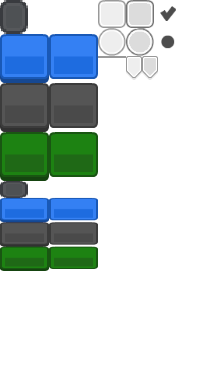
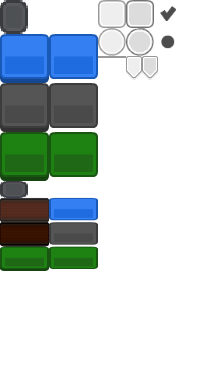
add links

Changed region(s): [[0.0, 0.538, 0.2559, 0.6875]]

diff --git a/src/ui/widget/link.rs b/src/ui/widget/link.rs
@@ -1,0 +1,118 @@
+use coffee::graphics::{Point, Rectangle};
+use coffee::input::{mouse, ButtonState};
+use coffee::ui::core::{Align, Event, Hasher, Layout, MouseCursor, Node, Style, Widget};
+
+use crate::message;
+use crate::ui::{renderer, Element};
+use std::hash::Hash;
+
+pub struct Link {
+    pressed: bool,
+    label: String,
+    on_press: message::Message,
+    on_release: message::Message,
+    style: Style,
+}
+
+impl std::fmt::Debug for Link {
+    fn fmt(&self, f: &mut std::fmt::Formatter<'_>) -> std::fmt::Result {
+        f.debug_struct("Button")
+            .field("label", &self.label)
+            .field("on_press", &self.on_press)
+            .field("style", &self.style)
+            .finish()
+    }
+}
+
+impl Link {
+    pub fn new(
+        pressed: bool,
+        label: &str,
+        on_press: message::Message,
+        on_release: message::Message,
+    ) -> Self {
+        Link {
+            pressed,
+            label: String::from(label),
+            on_press,
+            on_release,
+            style: Style::default().min_width(100),
+        }
+    }
+
+    pub fn width(mut self, width: u32) -> Self {
+        self.style = self.style.width(width);
+        self
+    }
+
+    pub fn fill_width(mut self) -> Self {
+        self.style = self.style.fill_width();
+        self
+    }
+
+    pub fn align_self(mut self, align: Align) -> Self {
+        self.style = self.style.align_self(align);
+        self
+    }
+}
+
+impl Widget<message::Message, renderer::Renderer> for Link {
+    fn node(&self, _renderer: &renderer::Renderer) -> Node {
+        Node::new(self.style.height(20))
+    }
+
+    fn on_event(
+        &mut self,
+        event: Event,
+        layout: Layout<'_>,
+        cursor_position: Point,
+        messages: &mut Vec<message::Message>,
+    ) {
+        match event {
+            Event::Mouse(mouse::Event::Input {
+                button: mouse::Button::Left,
+                state,
+            }) => {
+                let bounds = layout.bounds();
+                let on_it = bounds.contains(cursor_position);
+
+                match state {
+                    ButtonState::Pressed => {
+                        if on_it {
+                            messages.push(self.on_press.clone());
+                        }
+                    }
+                    ButtonState::Released => {
+                        if on_it && self.pressed {
+                            messages.push(self.on_release.clone());
+                        }
+                    }
+                }
+            }
+            _ => {}
+        }
+    }
+
+    fn draw(
+        &self,
+        renderer: &mut renderer::Renderer,
+        layout: Layout<'_>,
+        cursor_position: Point,
+    ) -> MouseCursor {
+        renderer.draw(cursor_position, layout.bounds(), &self.label)
+    }
+
+    fn hash(&self, state: &mut Hasher) {
+        self.style.hash(state);
+    }
+}
+
+pub trait Renderer {
+    fn draw(&mut self, cursor_position: Point, bounds: Rectangle<f32>, label: &str) -> MouseCursor;
+}
+
+impl<'a> From<Link> for Element<'a> {
+    fn from(link: Link) -> Element<'a> {
+        Element::new(link)
+    }
+}

diff --git a/src/ui/renderer/thin_button.rs b/src/ui/renderer/thin_button.rs
@@ -8,7 +8,7 @@ use coffee::ui::core::MouseCursor;
 const LEFT: Rectangle<u16> = Rectangle {
     x: 0,
     y: 199,
-    width: 7,
+    width: 2,
     height: 23,
 };
 
@@ -20,10 +20,10 @@ const BACKGROUND: Rectangle<u16> = Rectangle {
 };
 
 const RIGHT: Rectangle<u16> = Rectangle {
-    x: LEFT.height - LEFT.width,
-    y: LEFT.y,
-    width: LEFT.width,
-    height: LEFT.height,
+    x: 47,
+    y: 199,
+    width: 2,
+    height: 23,
 };
 
 impl thin_button::Renderer for Renderer {
@@ -86,7 +86,7 @@ impl thin_button::Renderer for Renderer {
 
         self.font.borrow_mut().add(Text {
             content: label,
-            position: Point::new(bounds.x, bounds.y - 4.0),
+            position: Point::new(bounds.x, bounds.y - 1.0),
             bounds: (bounds.width, bounds.height),
             color: if mouse_over {
                 Color::WHITE
@@ -98,7 +98,7 @@ impl thin_button::Renderer for Renderer {
                     a: 1.0,
                 }
             },
-            size: 15.0,
+            size: 17.0,
             horizontal_alignment: HorizontalAlignment::Center,
             vertical_alignment: VerticalAlignment::Center,
             ..Text::default()

diff --git a/src/engine/zone.rs b/src/engine/zone.rs
@@ -14,6 +14,7 @@ use crate::server::Server;
 use crate::sheet::TileSheet;
 use crate::socket::ZoneSocket;
 use crate::tile::zone::Tiles;
+use crate::ui::widget::link::Link;
 use crate::ui::widget::state_less_button;
 use crate::ui::widget::state_less_button::StateLessButton;
 use crate::ui::widget::text::Text;
@@ -1029,14 +1030,13 @@ impl Engine for ZoneEngine {
             if let Some(url) = url {
                 let id = self.link_button_ids.get(text).unwrap().clone();
                 right_menu = right_menu.push(
-                    StateLessButton::new(
+                    Link::new(
                         self.link_button_pressed == id,
                         &text,
                         Message::LinkButtonPressed(id),
                         Message::LinkButtonReleased(url.clone()),
                     )
-                    .width(175)
-                    .class(state_less_button::Class::Positive),
+                    .width(175),
                 );
             } else {
                 right_menu = right_menu.push(Text::new(text));

diff --git a/src/ui/renderer/link.rs b/src/ui/renderer/link.rs
@@ -1,0 +1,32 @@
+use crate::ui::renderer::Renderer;
+use crate::ui::widget::link;
+use coffee::graphics::{Color, HorizontalAlignment, Point, Rectangle, Text, VerticalAlignment};
+use coffee::ui::core::MouseCursor;
+
+impl link::Renderer for Renderer {
+    fn draw(&mut self, cursor_position: Point, bounds: Rectangle<f32>, label: &str) -> MouseCursor {
+        let mouse_over = bounds.contains(cursor_position);
+        let color = if mouse_over {
+            Color::BLUE
+        } else {
+            Color::WHITE
+        };
+
+        self.font.borrow_mut().add(Text {
+            content: label,
+            position: Point::new(bounds.x, bounds.y),
+            bounds: (bounds.width, bounds.height),
+            color,
+            size: 20.0,
+            horizontal_alignment: HorizontalAlignment::Left,
+            vertical_alignment: VerticalAlignment::Center,
+            ..Text::default()
+        });
+
+        if mouse_over {
+            MouseCursor::Pointer
+        } else {
+            MouseCursor::OutOfBounds
+        }
+    }
+}

diff --git a/src/ui/widget/mod.rs b/src/ui/widget/mod.rs
@@ -1,5 +1,6 @@
 pub mod button;
 pub mod checkbox;
+pub mod link;
 pub mod radio;
 pub mod state_less_button;
 pub mod text;

diff --git a/src/ui/renderer.rs b/src/ui/renderer.rs
@@ -1,6 +1,7 @@
 mod button;
 mod checkbox;
 mod image;
+mod link;
 mod panel;
 mod progress_bar;
 mod radio;
